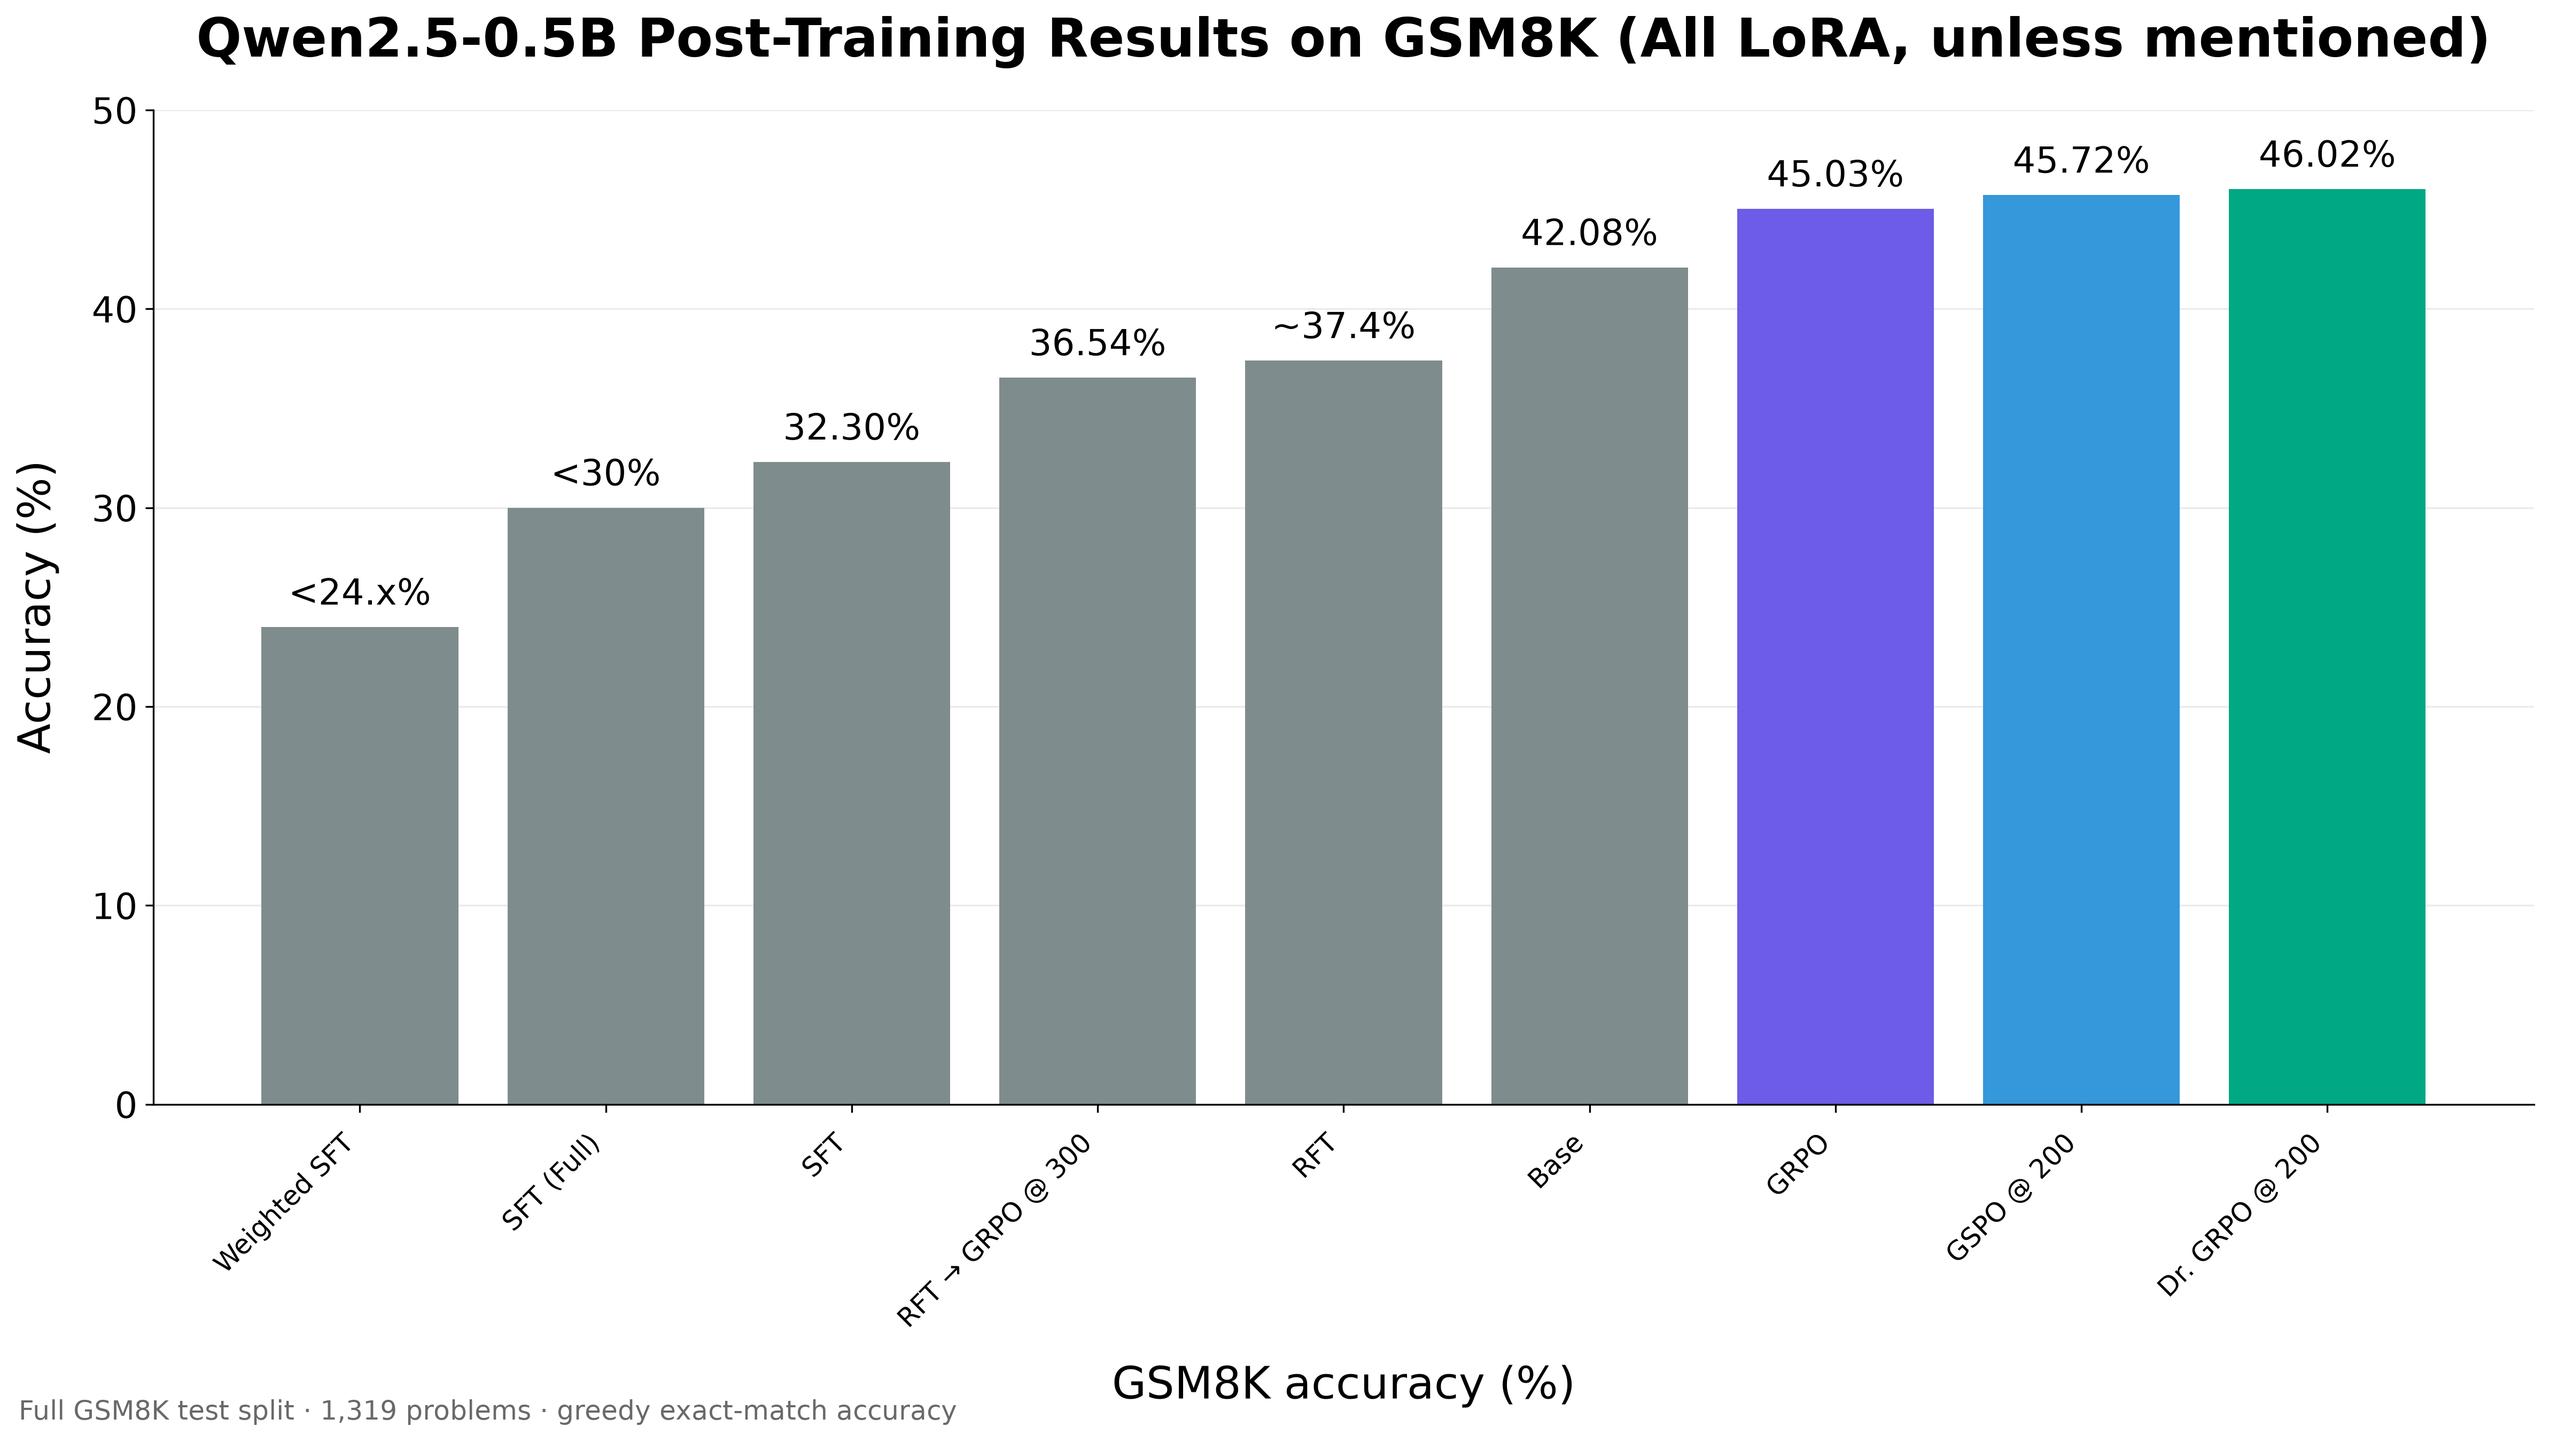
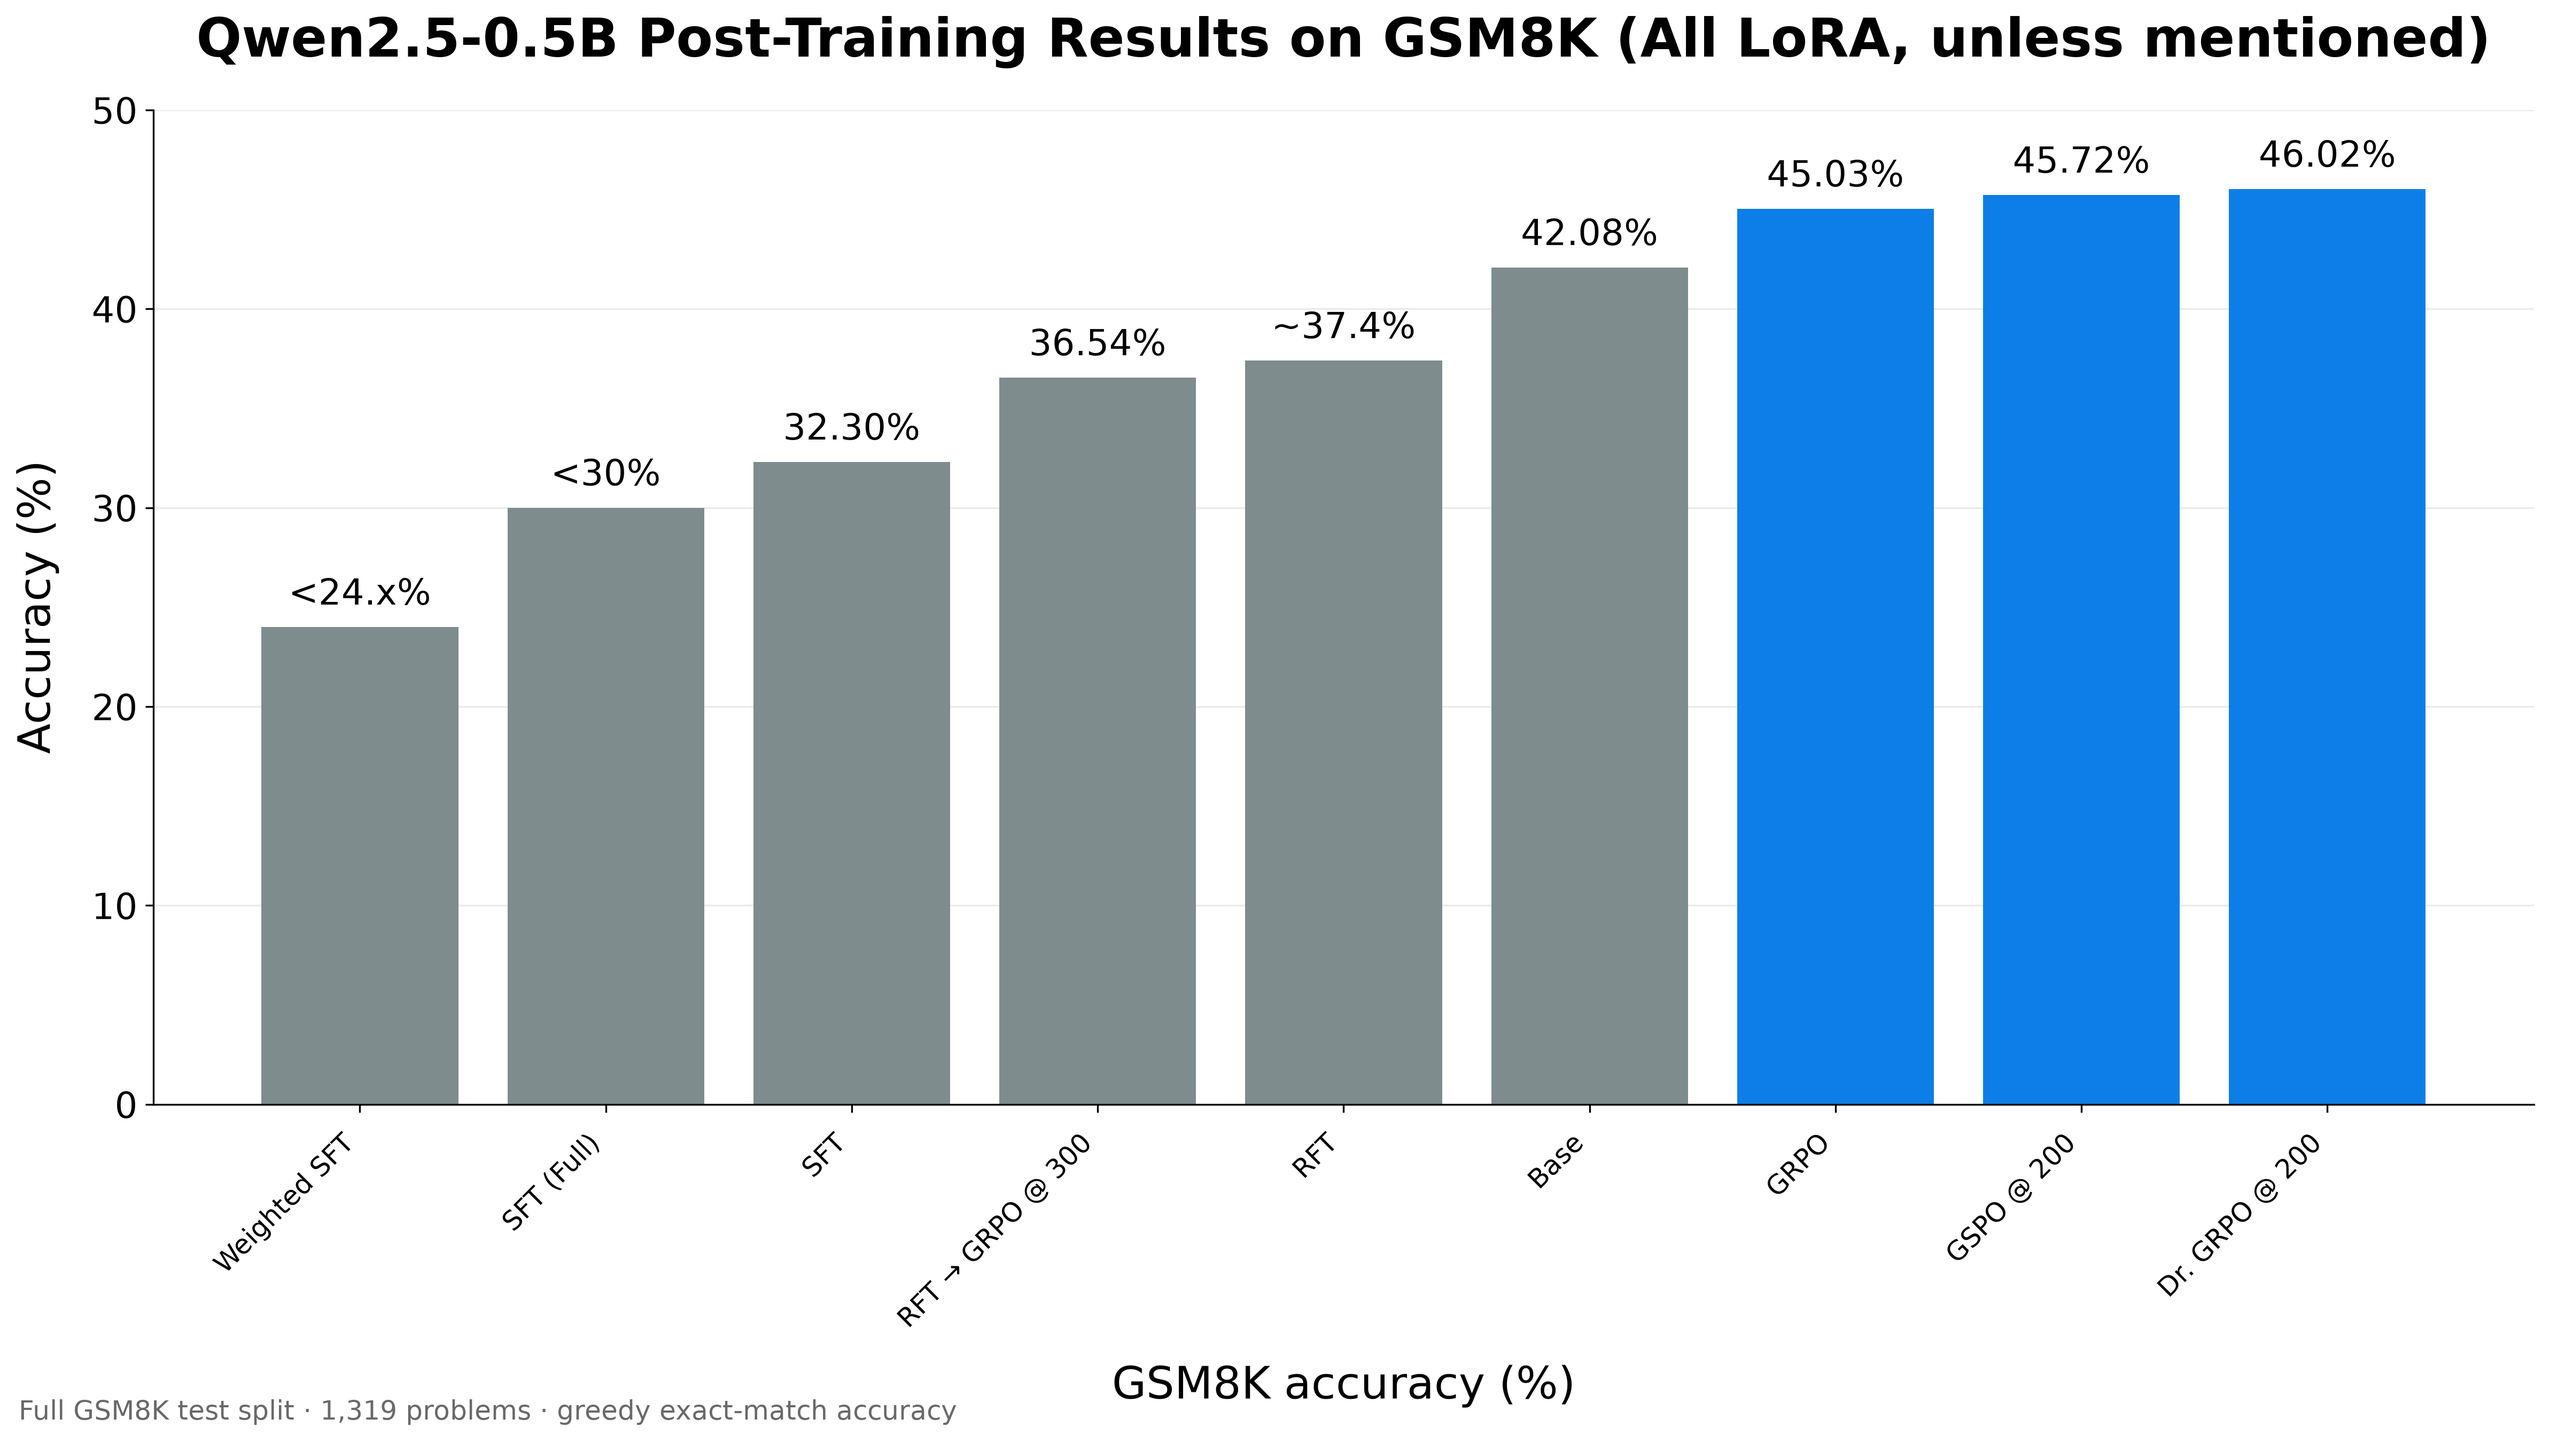
last commit was a mistake, plots added for comparison

Changed region(s): [[0.6557, 0.1244, 0.9679, 0.7778]]

diff --git a/models/qwen0.5b-grpo/plot_results.py b/models/qwen0.5b-grpo/plot_results.py
@@ -19,9 +19,9 @@ accuracy = [24.0, 30.0, 32.30, 36.54, 37.4, 42.08, 45.03, 45.72, 46.02]
 labels = ["<24.x%", "<30%", "32.30%", "36.54%", "~37.4%", "42.08%", "45.03%", "45.72%", "46.02%"]
 
 colors = ["#7f8c8d"] * len(methods)
-colors[6] = "#6c5ce7"       # GRPO
-colors[7] = "#3498db"       # GSPO @ 200
-colors[8] = "#00a884"       # Dr. GRPO @ 200
+colors[6] = "#0d7ee7"       # GRPO
+colors[7] = "#0d7ee7"       # GSPO @ 200
+colors[8] = "#0d7ee7"       # Dr. GRPO @ 200
 
 fig, ax = plt.subplots(figsize=(16, 9))
 x = range(len(methods))
